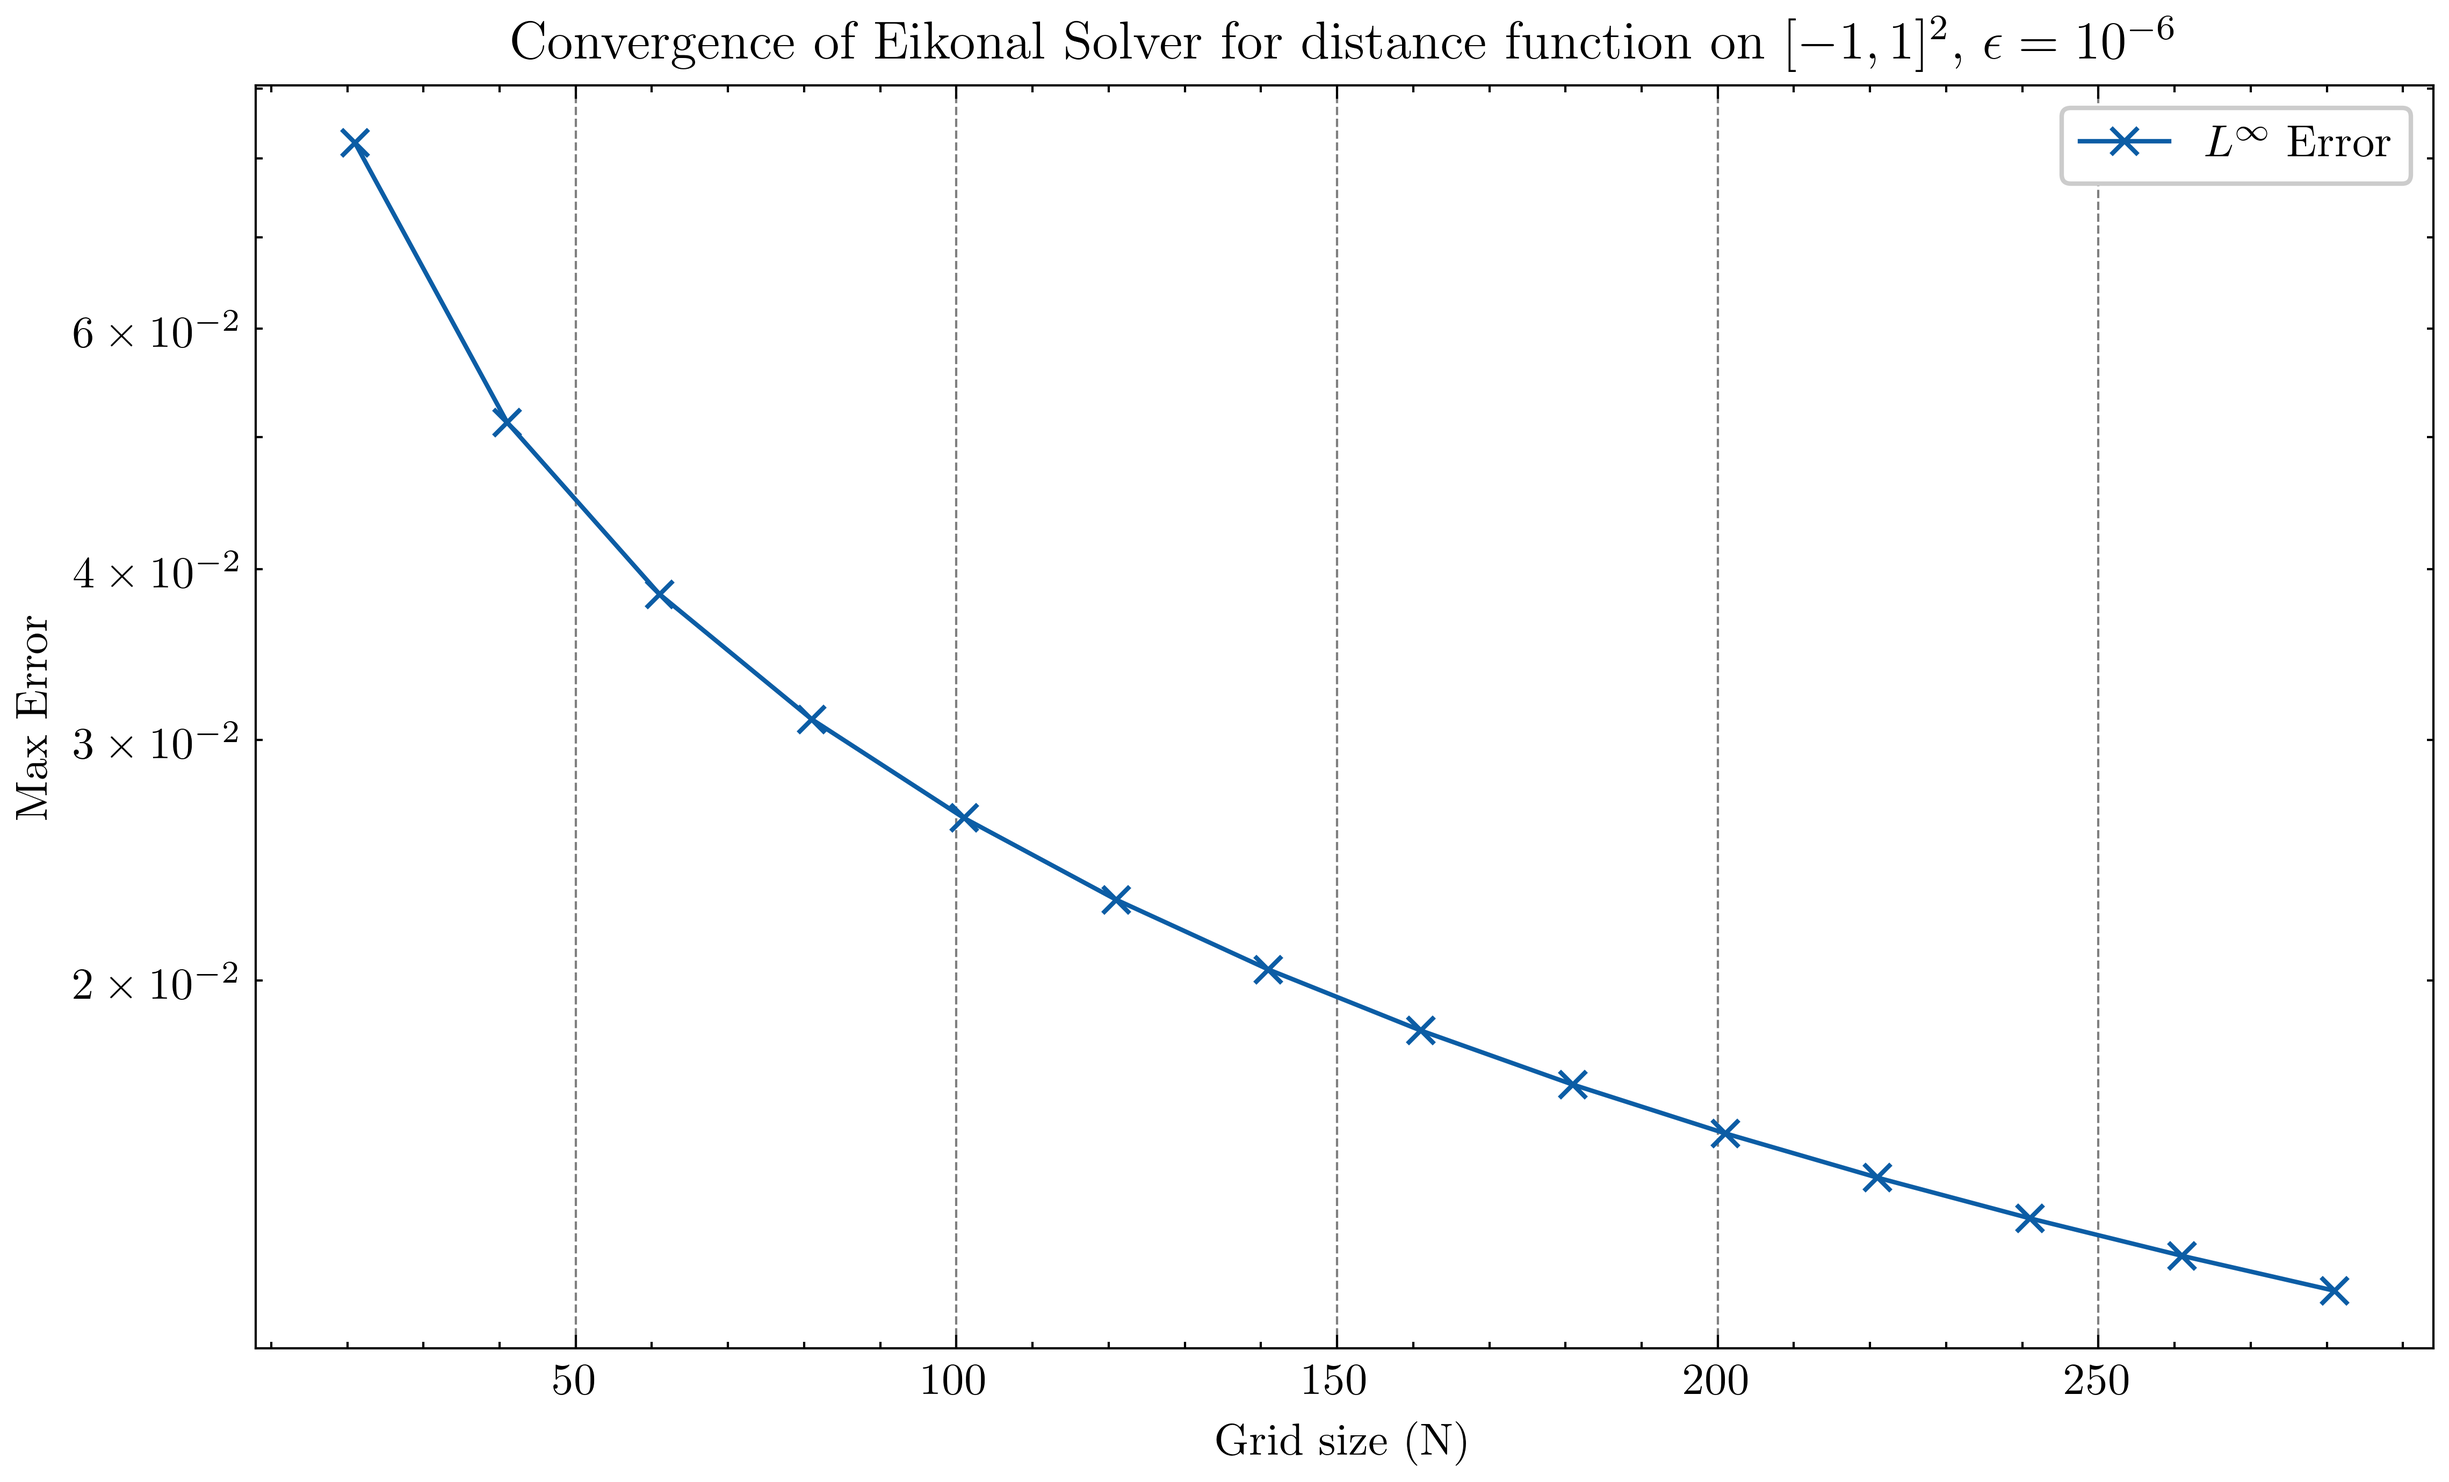
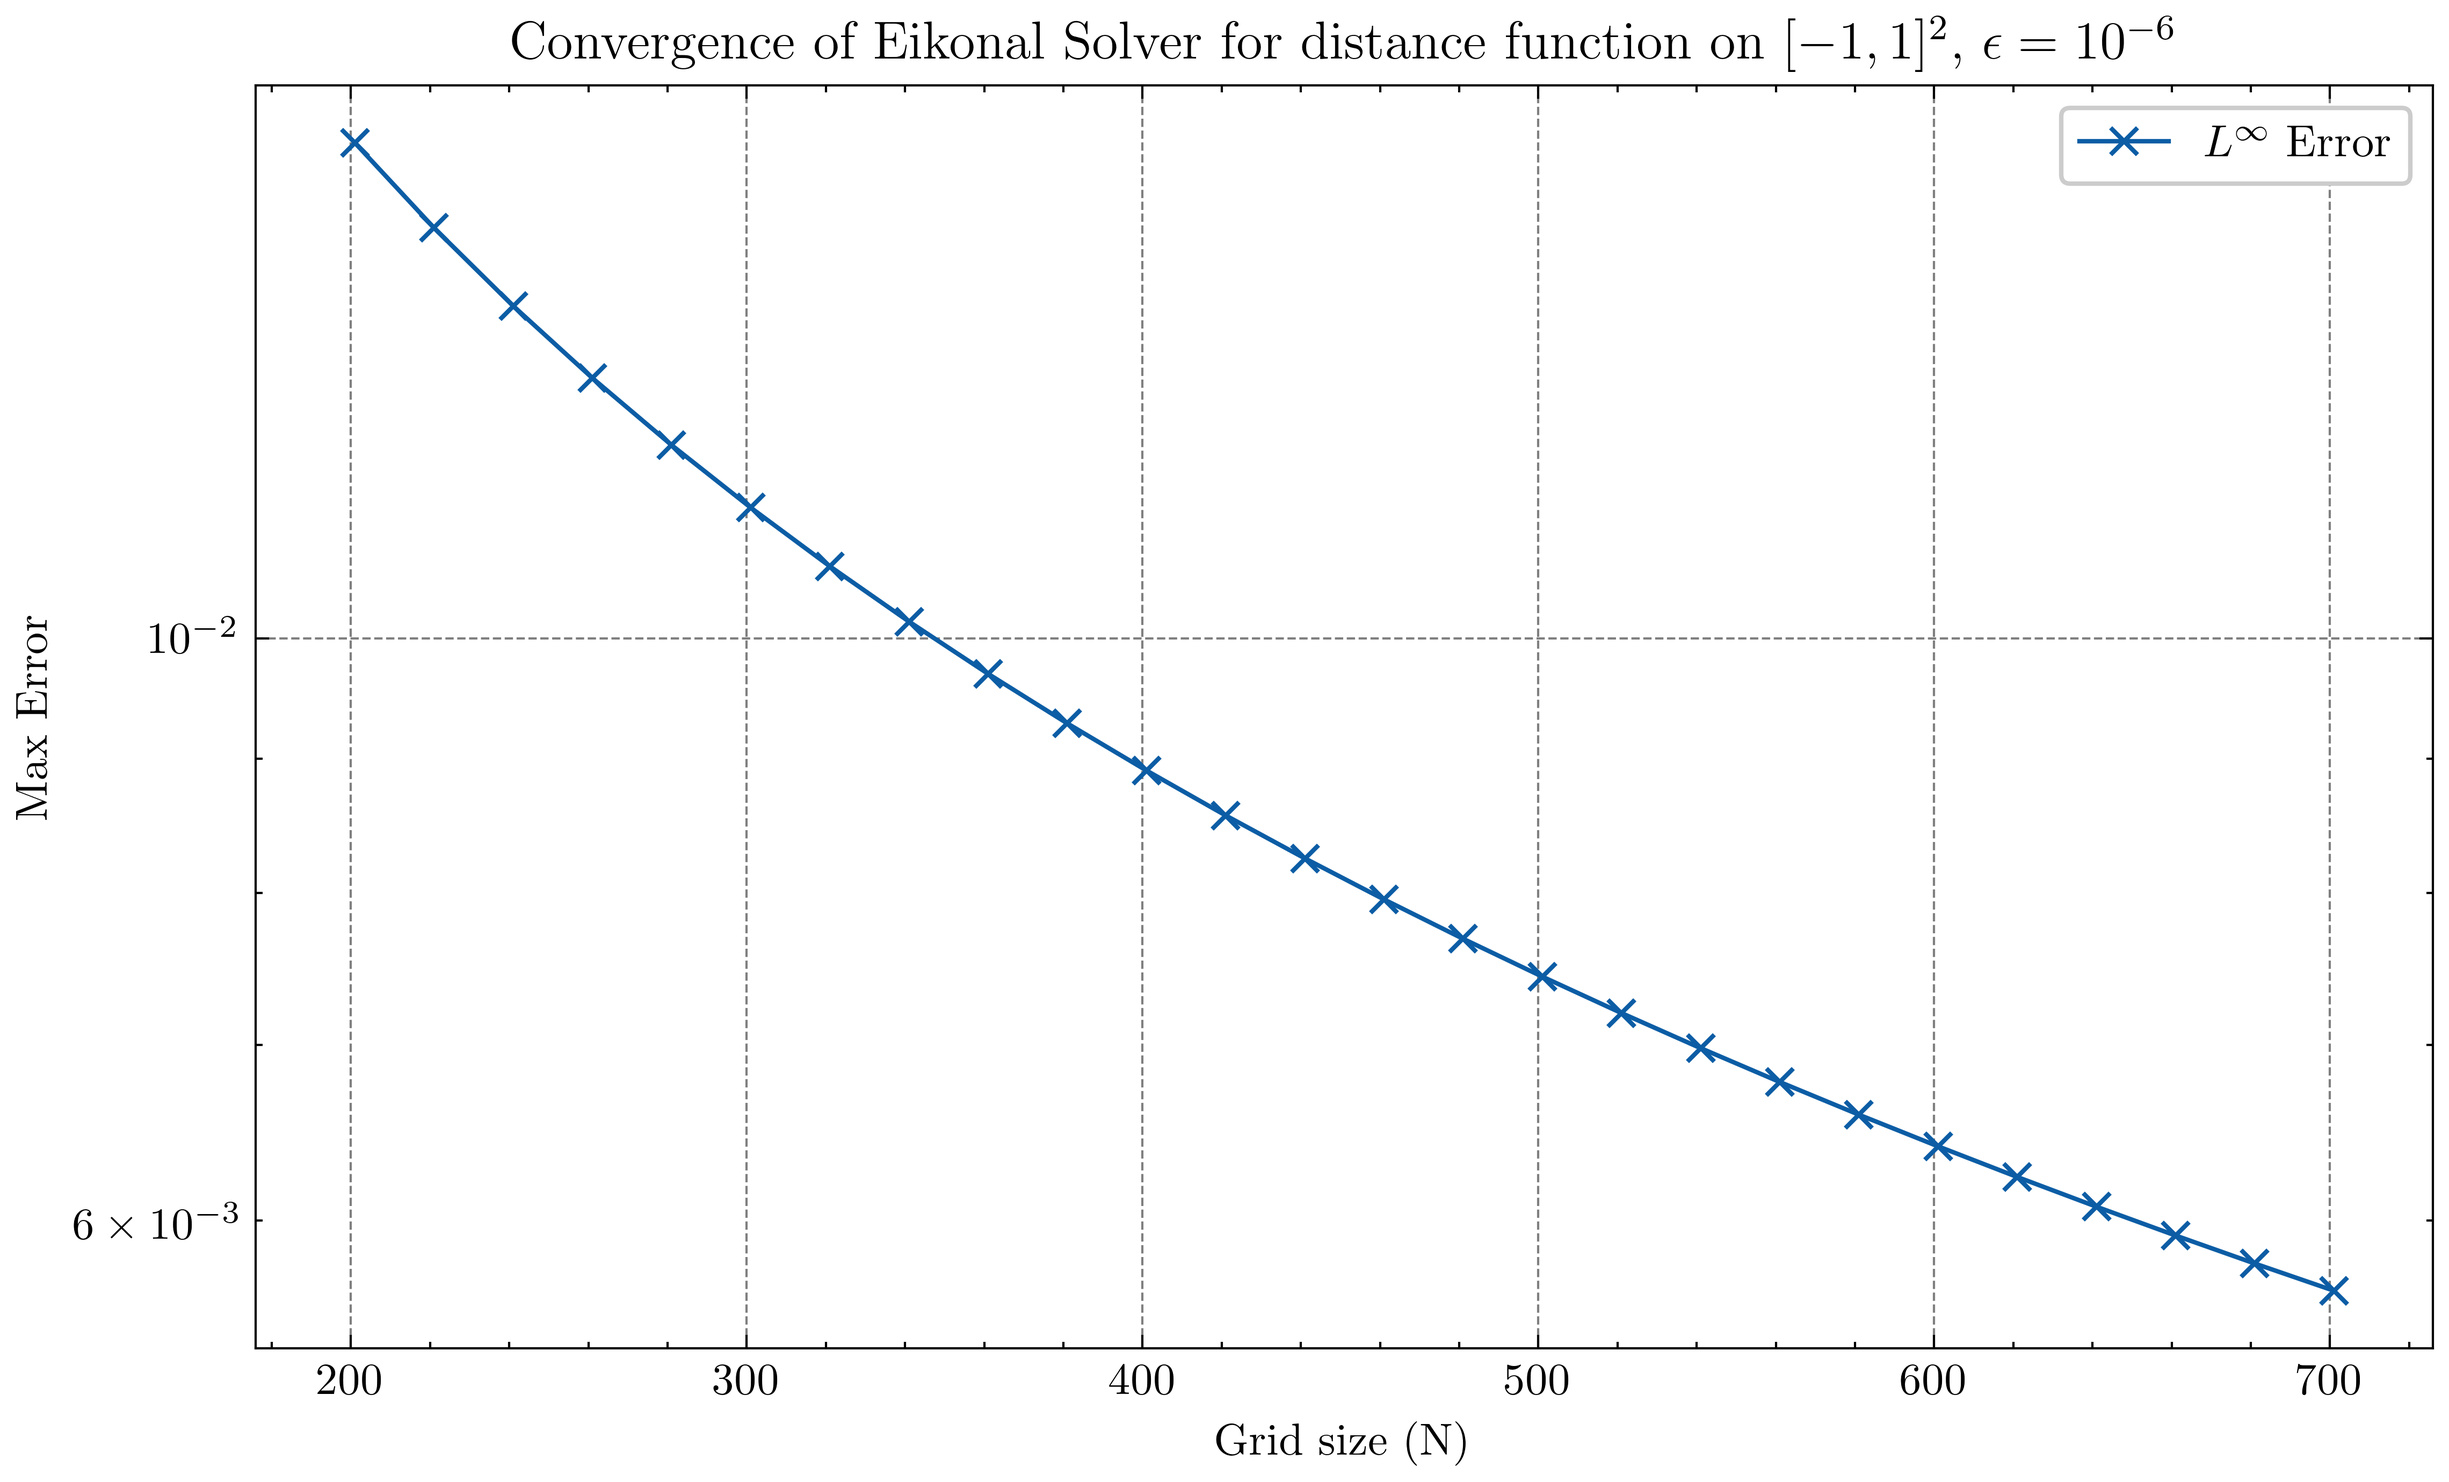
convergence results

diff --git a/results/distance/test_comparison.py b/results/distance/test_comparison.py
@@ -1,0 +1,65 @@
+import numpy as np
+from solvers.eikonal_distance_2D import EikonalSolver
+from computational_domain import ComputationalDomain
+import matplotlib.pyplot as plt
+from sklearn.linear_model import LinearRegression
+
+errors_epsilon = []
+errors_4sweeps = []
+
+for N in [(20*i + 1) for i in range(2,16)]:
+    print('Running analysis for N = ', N)
+    domain = ComputationalDomain(N = N, a = -1, b = 1, c = -1, d = 1)
+    domain.Gamma([(int((N-1)/2), int((N-1)/2))])
+    solv1 = EikonalSolver(domain = domain) #4 SWEEPS
+    solv2 = EikonalSolver(domain = domain) #CONVERGENCE UNDER EPSILON
+    solv1.BatchSweeps()
+    solv2.BatchSweeps(k = 2)
+
+    solution_4sweeps = solv1.grids_after_sweeps[-1]
+    solution_epsilon = solv2.grids_after_sweeps[-1]
+
+    x = np.linspace(-1, 1, N)
+    y = np.linspace(-1, 1, N)
+    X, Y = np.meshgrid(x, y)
+    true_distance = np.sqrt(X ** 2 + Y ** 2)
+
+    max_error_4sweeps = np.max(np.abs(true_distance - solution_4sweeps))
+    max_error_epsilon = np.max(np.abs(true_distance - solution_epsilon))
+    print('error 4 sweeps : ', max_error_4sweeps)
+    print('error epsilon : ', max_error_epsilon)
+
+    errors_epsilon.append(max_error_epsilon)
+    errors_4sweeps.append(max_error_4sweeps)
+
+
+
+index = [(20*i + 1) for i in range(2,16)]
+model = LinearRegression()
+X = np.array([(2/(N-1)) for N in index]).reshape(-1,1)
+model.fit(np.abs(X*np.log(X)), errors_epsilon)
+A = float(model.coef_)
+B = float(model.intercept_)
+x = np.linspace(np.min(X),np.max(X), 150)
+
+plt.figure(figsize=(7.8, 4.8))
+plt.plot([(2/(N-1)) for N in index][::-1], np.flip(errors_epsilon),  marker='x', label=r'$L^{\infty}$ Error')
+plt.plot(x, A*np.abs(x*np.log(x)) + B, label = fr'${round(A,4)} \cdot |h \log h| + {round(B,4)}$')
+plt.xlabel(r'Step size $h$')
+plt.ylabel("Max Error")
+plt.yscale("log")
+plt.title(r'Convergence of Eikonal Solver for distance function on $[-1,1]^2$, $\epsilon = 10^{-6}$')
+plt.legend()
+plt.tight_layout()
+plt.show(block=True)
+
+plt.figure(figsize=(7.8, 4.8))
+plt.plot([(2/(N-1)) for N in index][::-1], np.flip(errors_4sweeps),  marker='x', label=r'$L^{\infty}$ Error')
+#plt.plot(x, A*np.abs(x*np.log(x)) + B, label = fr'${round(A,4)} \cdot |h \log h| + {round(B,4)}$')
+plt.xlabel(r'Step size $h$')
+plt.ylabel("Max Error")
+plt.yscale("log")
+plt.title(r'Convergence of Eikonal Solver for distance function on $[-1,1]^2$, 4 sweeps only')
+plt.legend()
+plt.tight_layout()
+plt.show(block=True)

diff --git a/results/distance/simple_distance.py b/results/distance/simple_distance.py
@@ -18,10 +18,10 @@ print("PDE solved on unit square grid \n")
 # CONVERGENCE ANALYSIS:
 errors = []
 epsilon = 1e-4
-A = 15 # Max value for N is 20*A + 1 = 461 here
+A = 36 # Max value for N is 20*A + 1 = 461 here
 print("Now running convergence analysis...")
 
-for N in [(20*i + 1) for i in range(1, A)]:
+for N in [(20*i + 1) for i in range(10, A)]:
     print("Running convergence analysis. N = ", N)
     unit_square = ComputationalDomain(N = N, a = -1, b = 1, c = -1, d = 1)
     unit_square.Gamma([(int((N-1)/2), int((N-1)/2))])
@@ -42,4 +42,4 @@ for N in [(20*i + 1) for i in range(1, A)]:
 
 print("Convergence analysis finished. Saving results.")
 np.save('2D_distance_errors.npy', errors)
-np.save('N_index_errors.npy', [(20*i + 1) for i in range(1,A)])
+np.save('N_index_errors.npy', [(20*i + 1) for i in range(10,A)])
